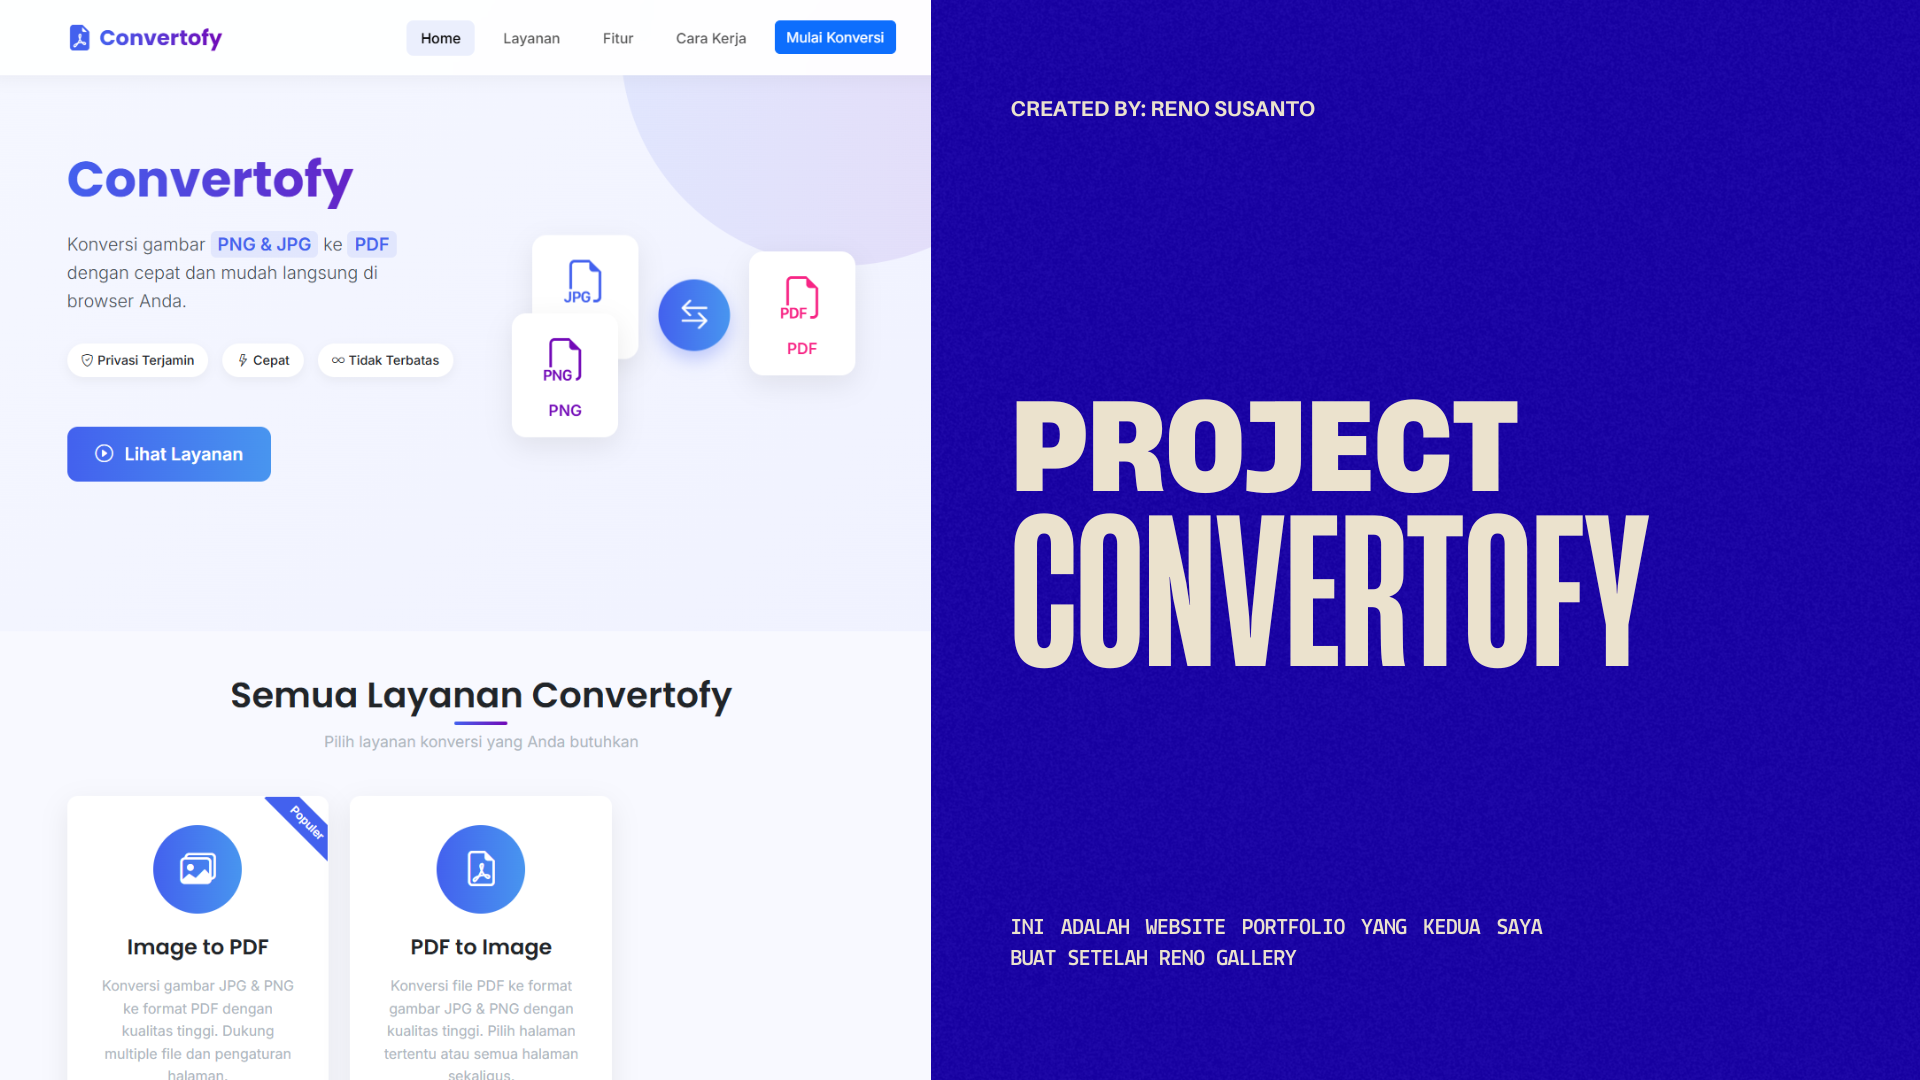
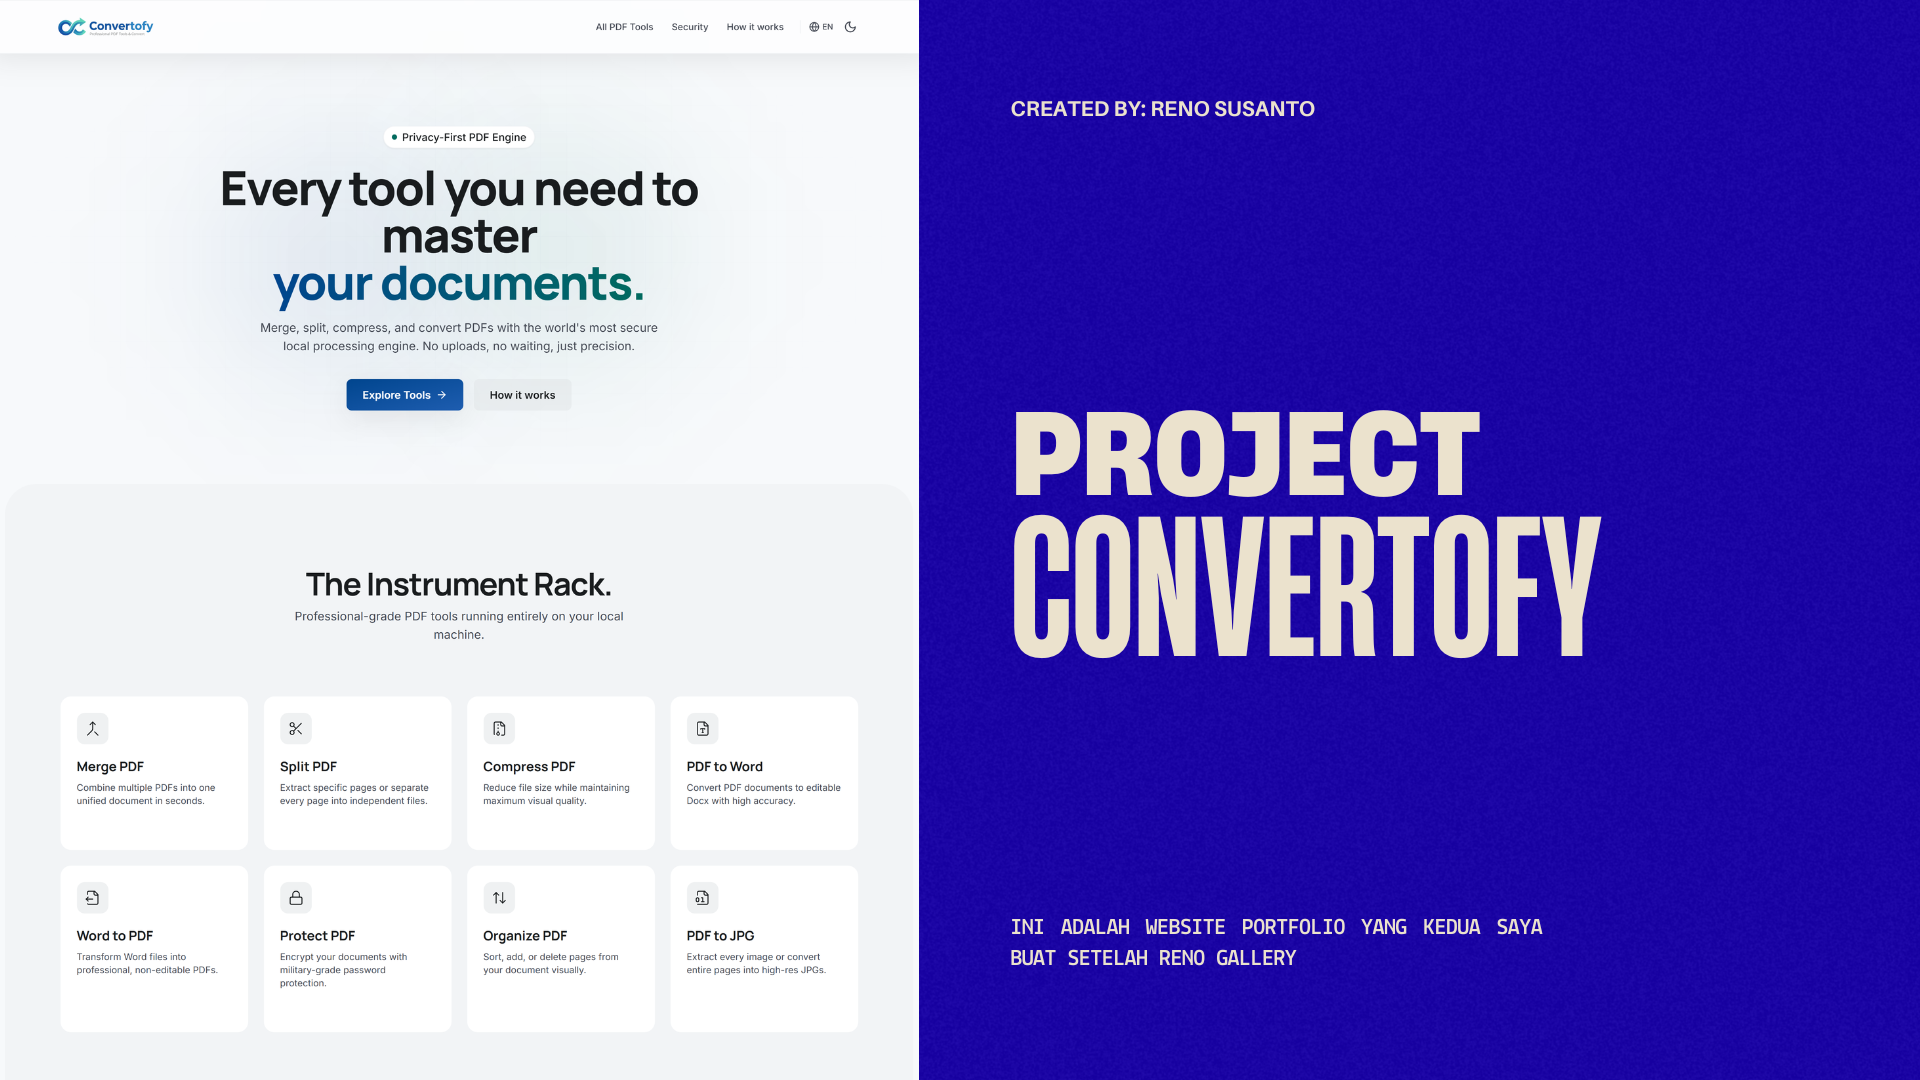
update foto project

diff --git a/index.html b/index.html
@@ -476,12 +476,8 @@
                                 <h1 class="projects__title">Convertofy</h1>
 
                                 <div class="projects__buttons">
-                                    <a href="https://github.com/Eno1933/Convertofy" class="projects__button"
-                                        target="_blank">
-                                        Repository <i class="ri-github-line"></i> 
-                                    </a>
                                     <a href="https://convertofy.netlify.app" class="projects__button" target="_blank">
-                                        View demo <i class="ri-arrow-right-line"></i>
+                                        View <i class="ri-arrow-right-line"></i>
                                     </a>
                                 </div>
                             </div>
@@ -496,12 +492,8 @@
                                 <h1 class="projects__title">Portfolio Web</h1>
 
                                 <div class="projects__buttons">
-                                    <a href="https://github.com/Eno1933/MyPortfolio" class="projects__button"
-                                        target="_blank">
-                                        Repository <i class="ri-github-line"></i>
-                                    </a>
                                     <a href="#" class="projects__button" target="_blank">
-                                        View demo <i class="ri-arrow-right-line"></i>
+                                        View <i class="ri-arrow-right-line"></i>
                                     </a>
                                 </div>
                             </div>
